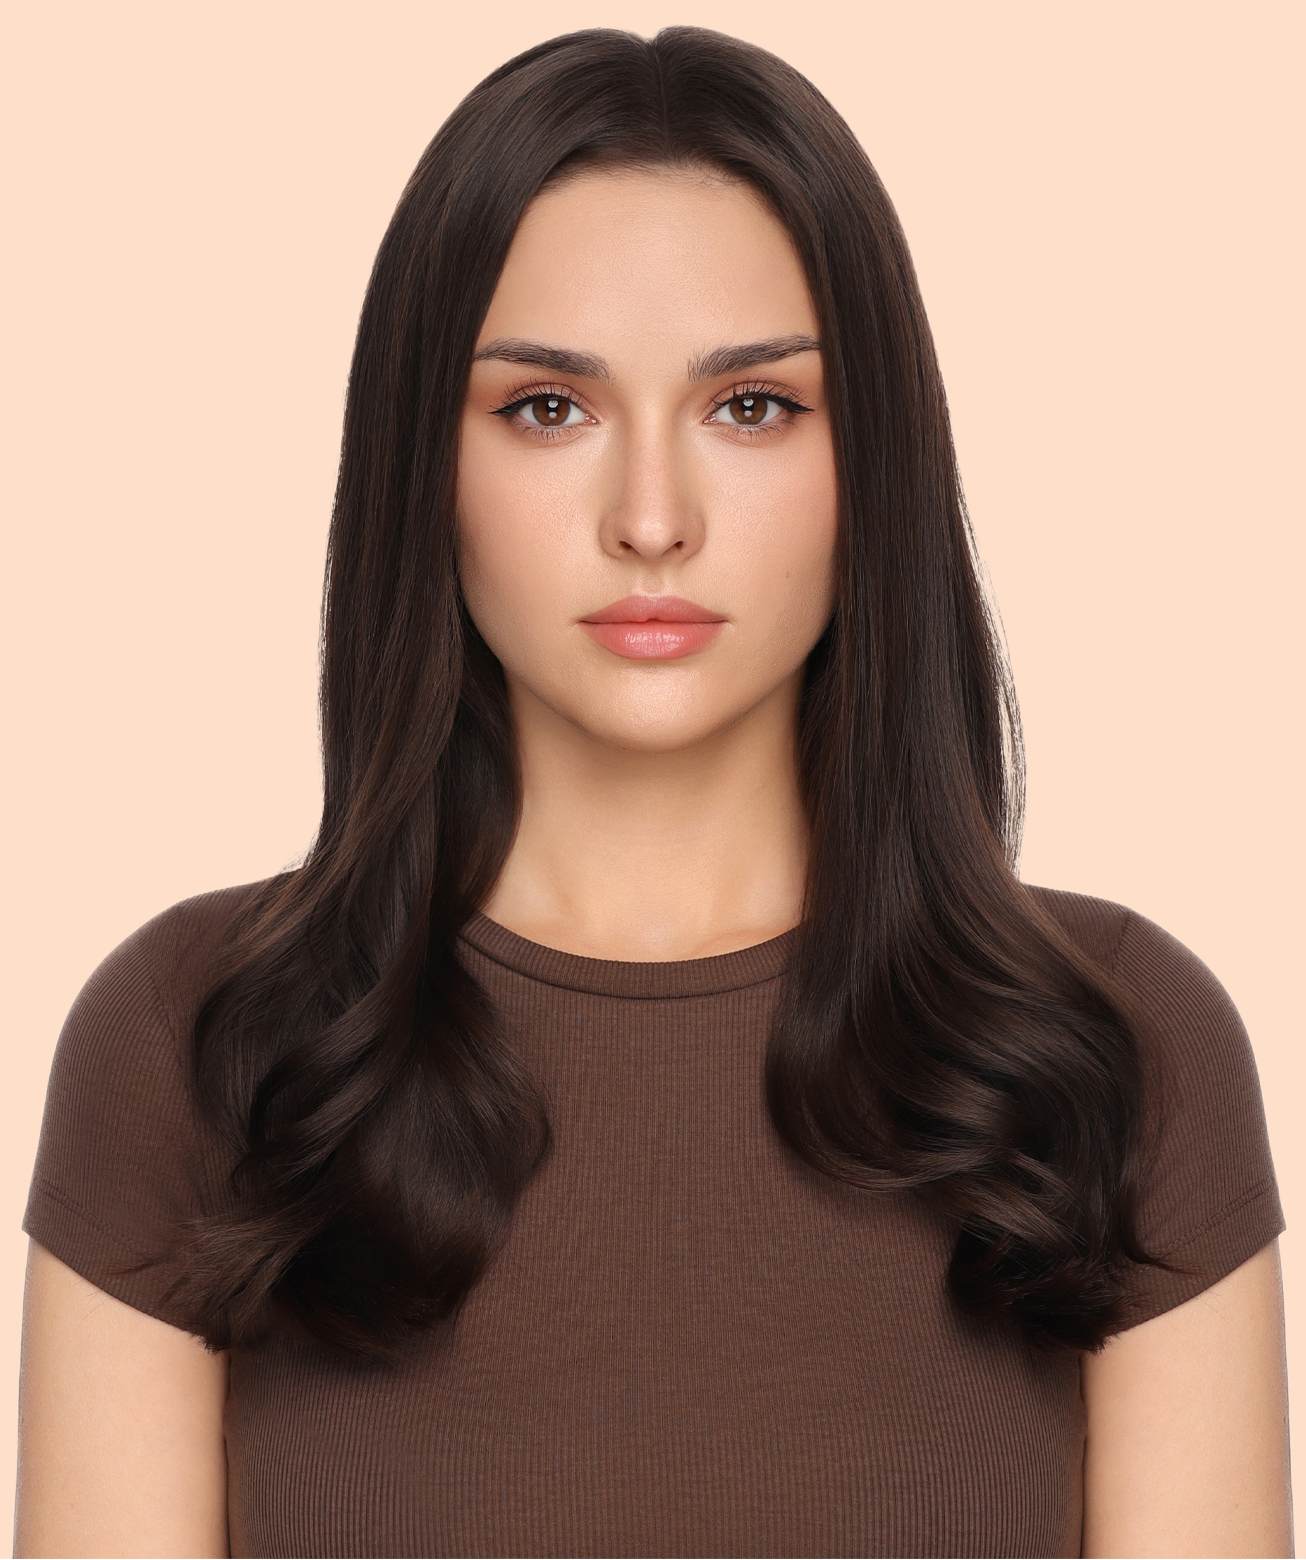
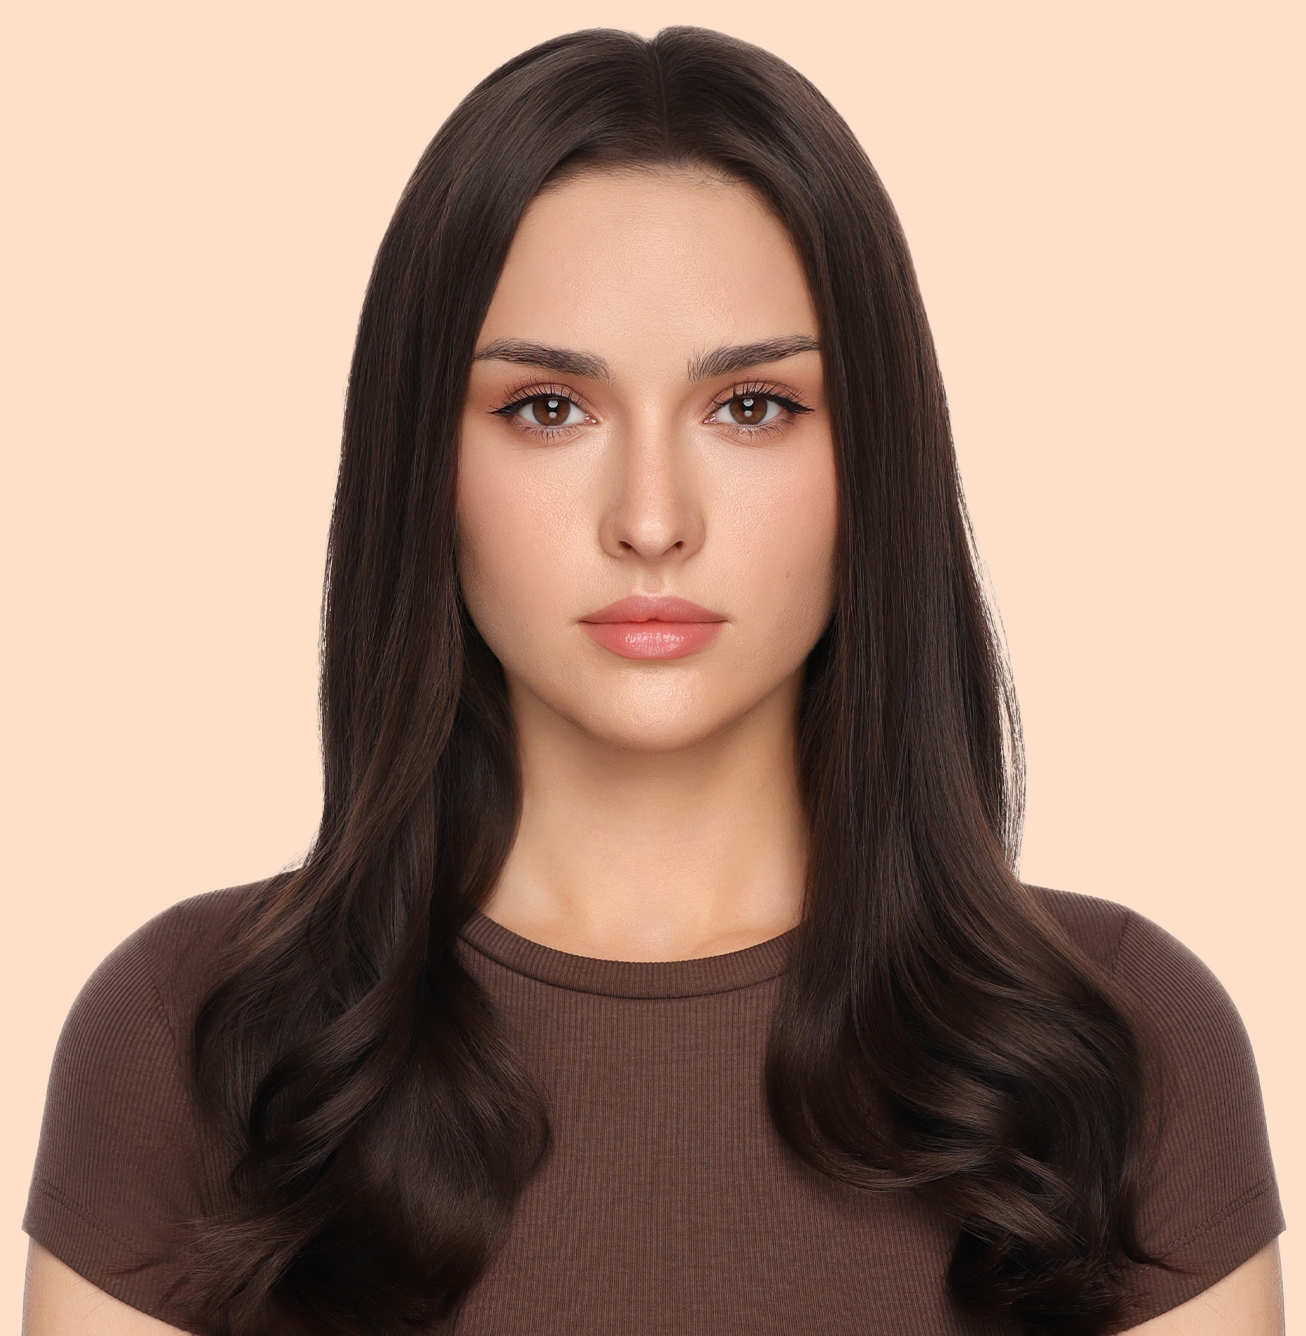
еще исправления

diff --git a/src/components/Hero.jsx b/src/components/Hero.jsx
@@ -23,16 +23,16 @@ export default function Hero() {
             Вы точно себе понравитесь. Быстро, удобно и с хорошим результатом — ретушь за 10 минут, студия в центре.
           </p>
                 {/* Кнопки */}
-        <div className="mt-10 flex flex-wrap items-center gap-4">
+        <div className="mt-10 flex flex-wrap items-center max-lg:justify-between gap-4">
           <a
             href={CONTACTS.bookingUrl} target="_blank" rel="noreferrer"
-            className="inline-flex items-center gap-3 rounded bg-red px-7 py-3.5 text-[14px] font-medium text-white shadow-[0_4px_15px_rgba(255,92,26,0.3)] transition hover:bg-white hover:border-red hover:text-red border border-transparent hover:shadow-none"
+            className="inline-flex max-lg:flex-1 max-lg:justify-center items-center gap-3 rounded bg-red px-7 py-3.5 text-[14px] font-medium text-white shadow-[0_4px_15px_rgba(255,92,26,0.3)] transition hover:bg-white hover:border-red hover:text-red border border-transparent hover:shadow-none"
           >
             ЗАПИСАТЬСЯ
           </a>
           <a
             href={CONTACTS.phoneHref}
-            className="inline-flex items-center justify-center rounded border border-black/50 bg-white/40 backdrop-blur-sm px-7 py-3.5 text-[14px] text-black transition hover:border-black hover:bg-white/80"
+            className="inline-flex max-lg:flex-1 max-sm:px-2 items-center justify-center rounded border border-black/50 bg-white/40 backdrop-blur-sm px-7 py-3.5 text-[14px] text-black transition hover:border-black hover:bg-white/80"
           >
             {CONTACTS.phone}
           </a>

diff --git a/src/App.jsx b/src/App.jsx
@@ -16,7 +16,7 @@ export default function App() {
   // useSmoothScroll();
 
   return (
-    <div className="relative min-h-screen bg-white font-sans text-white antialiased">
+    <div className="relative min-h-screen bg-white font-sans text-white antialiased overflow-x-hidden">
       {/* <Grain /> */}
       <Header />
       <main>
